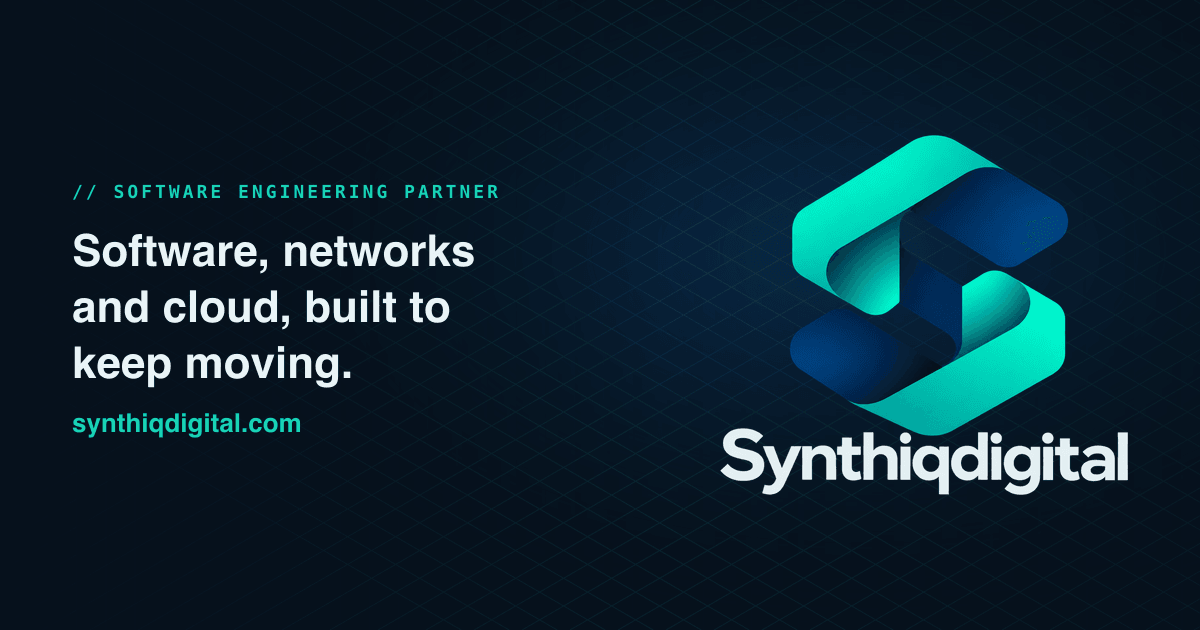
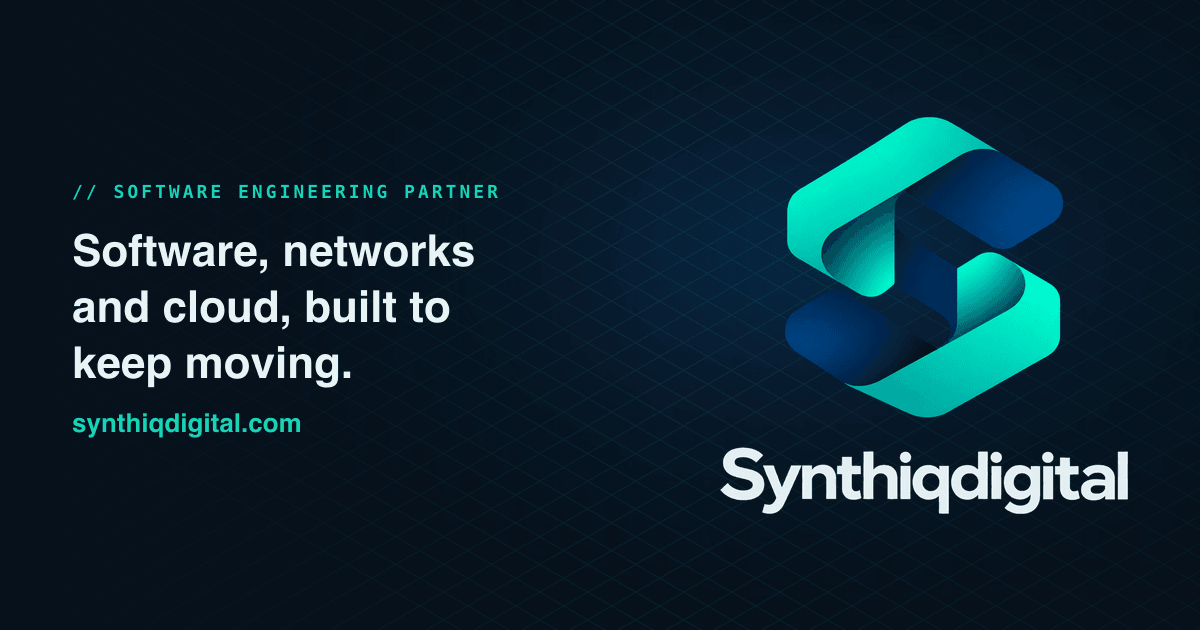
spec(synthiq-ui-polish): 2 Tách khoảng trống giữa biểu tượng và chữ…
Requirements: 1.2, 1.5
Kiểm chứng: `npm run assets && npm run build && npm test && npm run check` → exit 0 (check passed) [spec-done tự chạy lại]

Changed region(s): [[0.5858, 0.181, 0.9558, 0.8143]]

diff --git a/404.html b/404.html
@@ -106,7 +106,7 @@
       <a class="footer-logo" href="index.html" aria-label="Synthiq home">
         <picture>
           <source srcset="images/logo-full.webp" type="image/webp">
-          <img src="images/logo-full.png" width="91" height="80" alt="Synthiq">
+          <img src="images/logo-full.png" width="82" height="80" alt="Synthiq">
         </picture>
       </a>
       <p class="footer-tagline">Software, networks and cloud, engineered by small senior teams that stay with you after launch.</p>

diff --git a/about.html b/about.html
@@ -206,7 +206,7 @@
       <a class="footer-logo" href="index.html" aria-label="Synthiq home">
         <picture>
           <source srcset="images/logo-full.webp" type="image/webp">
-          <img src="images/logo-full.png" width="91" height="80" alt="Synthiq">
+          <img src="images/logo-full.png" width="82" height="80" alt="Synthiq">
         </picture>
       </a>
       <p class="footer-tagline">Software, networks and cloud, engineered by small senior teams that stay with you after launch.</p>

diff --git a/contact.html b/contact.html
@@ -171,7 +171,7 @@
       <a class="footer-logo" href="index.html" aria-label="Synthiq home">
         <picture>
           <source srcset="images/logo-full.webp" type="image/webp">
-          <img src="images/logo-full.png" width="91" height="80" alt="Synthiq">
+          <img src="images/logo-full.png" width="82" height="80" alt="Synthiq">
         </picture>
       </a>
       <p class="footer-tagline">Software, networks and cloud, engineered by small senior teams that stay with you after launch.</p>

diff --git a/index.html b/index.html
@@ -229,7 +229,7 @@
       <a class="footer-logo" href="index.html" aria-label="Synthiq home">
         <picture>
           <source srcset="images/logo-full.webp" type="image/webp">
-          <img src="images/logo-full.png" width="91" height="80" alt="Synthiq">
+          <img src="images/logo-full.png" width="82" height="80" alt="Synthiq">
         </picture>
       </a>
       <p class="footer-tagline">Software, networks and cloud, engineered by small senior teams that stay with you after launch.</p>

diff --git a/portfolio.html b/portfolio.html
@@ -263,7 +263,7 @@
       <a class="footer-logo" href="index.html" aria-label="Synthiq home">
         <picture>
           <source srcset="images/logo-full.webp" type="image/webp">
-          <img src="images/logo-full.png" width="91" height="80" alt="Synthiq">
+          <img src="images/logo-full.png" width="82" height="80" alt="Synthiq">
         </picture>
       </a>
       <p class="footer-tagline">Software, networks and cloud, engineered by small senior teams that stay with you after launch.</p>

diff --git a/services.html b/services.html
@@ -254,7 +254,7 @@
       <a class="footer-logo" href="index.html" aria-label="Synthiq home">
         <picture>
           <source srcset="images/logo-full.webp" type="image/webp">
-          <img src="images/logo-full.png" width="91" height="80" alt="Synthiq">
+          <img src="images/logo-full.png" width="82" height="80" alt="Synthiq">
         </picture>
       </a>
       <p class="footer-tagline">Software, networks and cloud, engineered by small senior teams that stay with you after launch.</p>

diff --git a/src/partials/footer.html b/src/partials/footer.html
@@ -4,7 +4,7 @@
       <a class="footer-logo" href="index.html" aria-label="{{name}} home">
         <picture>
           <source srcset="images/logo-full.webp" type="image/webp">
-          <img src="images/logo-full.png" width="91" height="80" alt="{{name}}">
+          <img src="images/logo-full.png" width="82" height="80" alt="{{name}}">
         </picture>
       </a>
       <p class="footer-tagline">Software, networks and cloud, engineered by small senior teams that stay with you after launch.</p>

diff --git a/specs/synthiq-ui-polish/history.md b/specs/synthiq-ui-polish/history.md
@@ -7,3 +7,11 @@
 - Kiểm chứng: `npm run build && npm test && npm run check` → exit 0 (check passed) [spec-done tự chạy lại]
 - Requirements: 1.3, 1.4, 1.5
 - Commit: `spec(synthiq-ui-polish): 1 Sửa timeline: selector ol.timeline, đường…`
+
+## 2 Tách khoảng trống giữa biểu tượng và chữ trong `logo-full`/`og.png`, cập nhật test và kích thước logo footer — HOÀN THÀNH
+
+- Thời gian: 2026-10-27 13:01
+- File đã đổi: `404.html`, `about.html`, `contact.html`, `images/logo-full.png`, `images/logo-full.webp`, `images/og.png`, `index.html`, `portfolio.html`, `scripts/assets.mjs`, `services.html`, `src/partials/footer.html`, `tests/assets.test.mjs`
+- Kiểm chứng: `npm run assets && npm run build && npm test && npm run check` → exit 0 (check passed) [spec-done tự chạy lại]
+- Requirements: 1.2, 1.5
+- Commit: `spec(synthiq-ui-polish): 2 Tách khoảng trống giữa biểu tượng và chữ…`

diff --git a/specs/synthiq-ui-polish/quick.md b/specs/synthiq-ui-polish/quick.md
@@ -55,7 +55,7 @@ Nguyên nhân timeline: `ol[class] { padding: 0 }` có độ ưu tiên cao hơn 
 - [x] 1 Sửa timeline: selector `ol.timeline`, đường kẻ qua tâm vòng số ở desktop và mobile, thêm test CSS
   - Kiểm chứng: `npm run build && npm test && npm run check` đạt
   - _Requirements: 1.3, 1.4, 1.5_
-- [ ] 2 Tách khoảng trống giữa biểu tượng và chữ trong `logo-full`/`og.png`, cập nhật test và kích thước logo footer
+- [x] 2 Tách khoảng trống giữa biểu tượng và chữ trong `logo-full`/`og.png`, cập nhật test và kích thước logo footer
   - Kiểm chứng: `npm run assets && npm run build && npm test && npm run check` đạt
   - _Requirements: 1.2, 1.5_
 - [ ] 3 Thêm 4 ảnh Unsplash mới, mỗi case Portfolio một ảnh riêng, thêm test chống trùng ảnh
